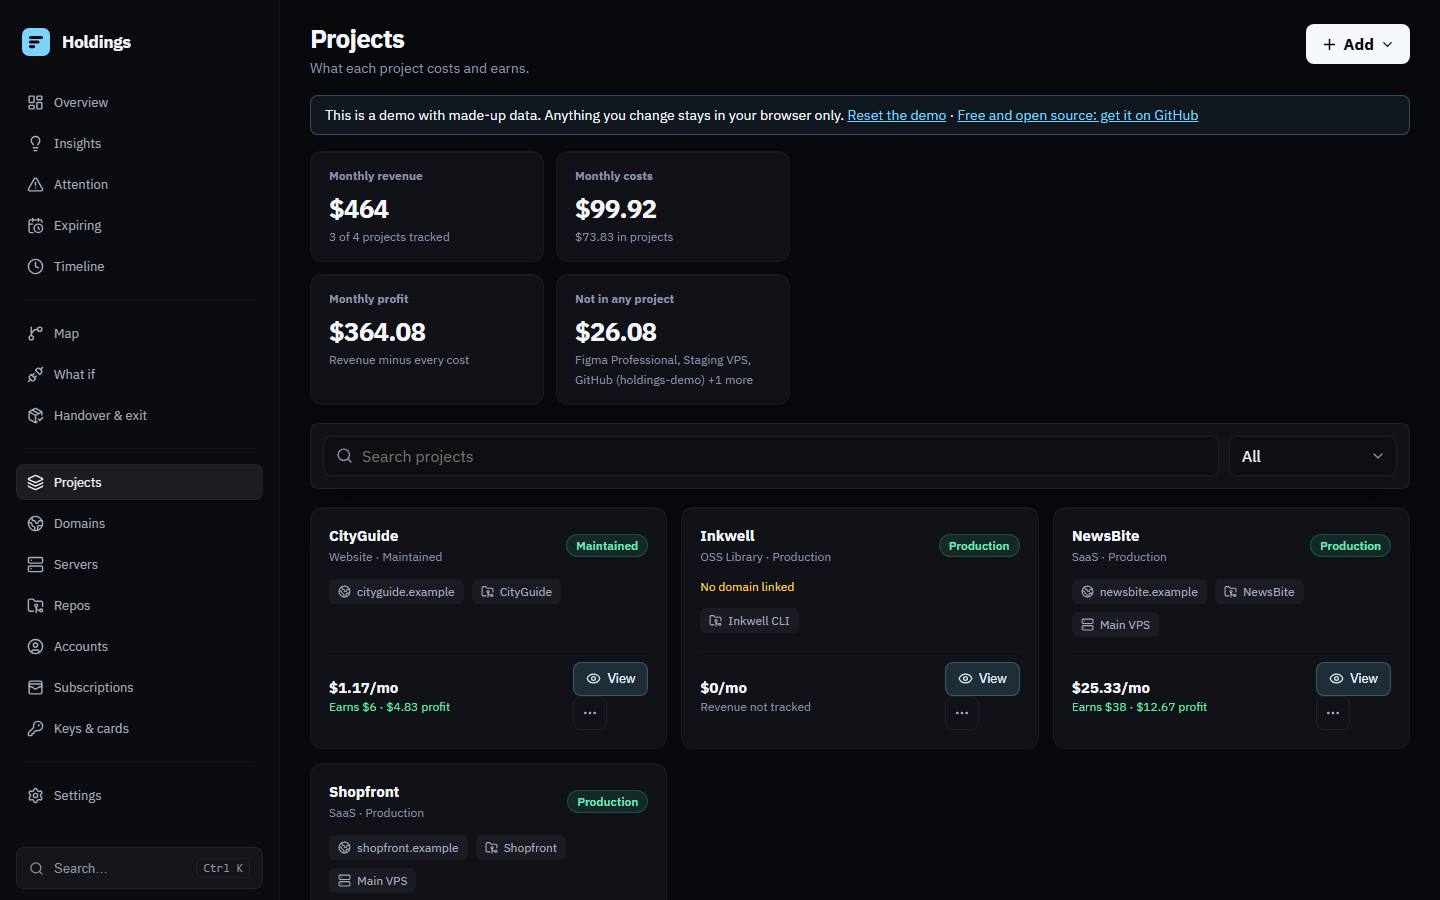
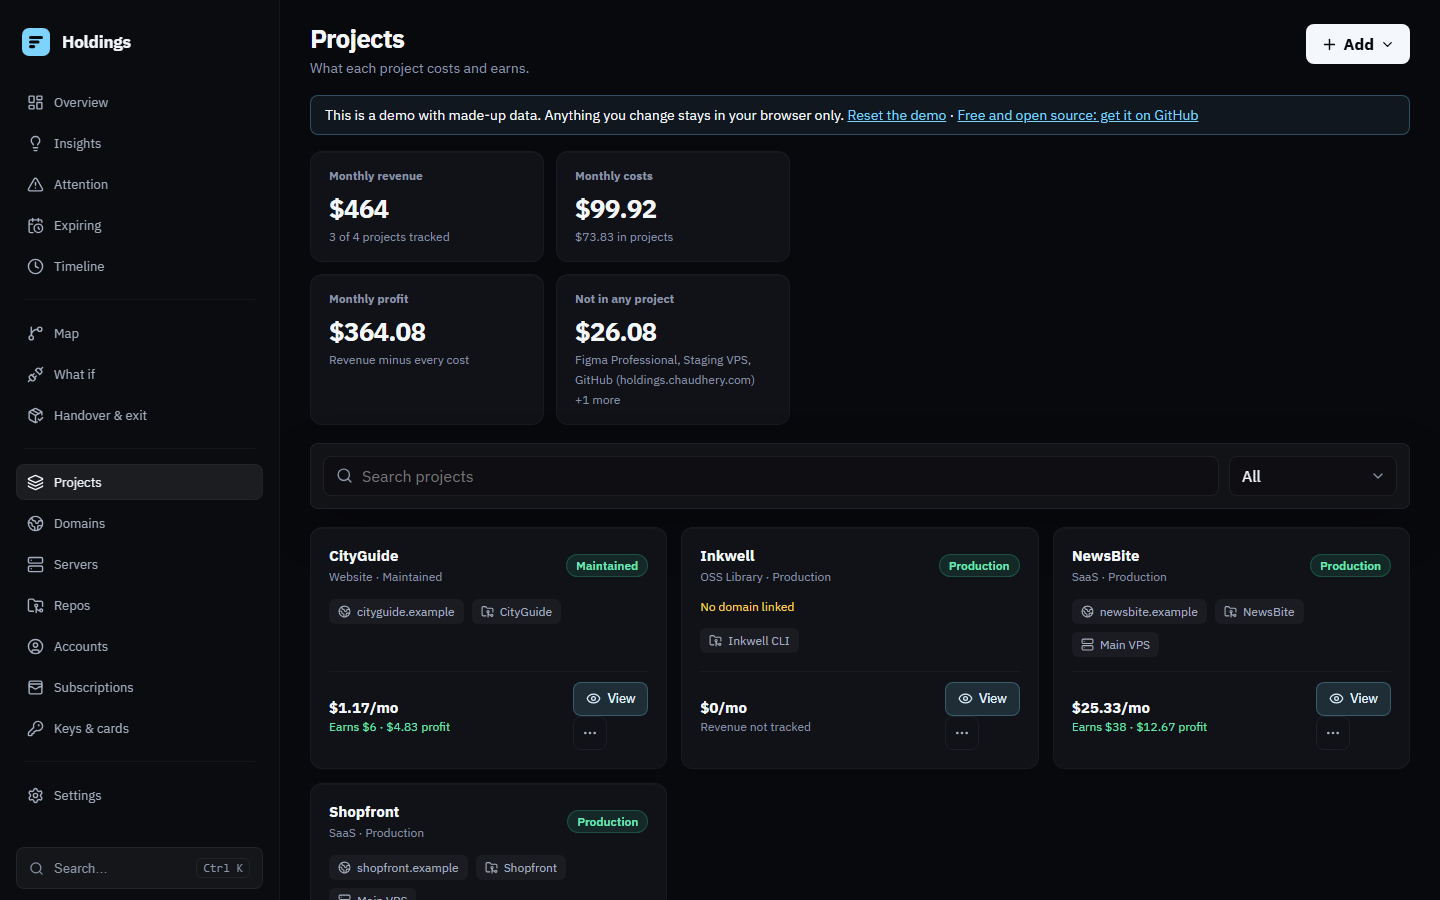
Link demo repos to the hosted demo, not a GitHub org we don't own
The demo's repos and GitHub account used a placeholder holdings-demo
organisation that anyone could register. They now point at
holdings.chaudhery.com, and the demo data test allows no other real host.

diff --git a/src/lib/seed-data.js b/src/lib/seed-data.js
@@ -1,7 +1,10 @@
 // Fictional demo portfolio. Everything here is made up: domains use the
 // reserved .example TLD (RFC 2606), IPs come from TEST-NET ranges (RFC 5737),
-// and the GitHub owner is a placeholder. Dates are relative to today so the
-// demo never goes stale.
+// and repos link to the hosted demo. Dates are relative to today so the demo
+// never goes stale.
+
+export const DEMO_HOST = 'holdings.chaudhery.com'
+const DEMO_REPOS_URL = `https://${DEMO_HOST}/#repos`
 
 // Local calendar date (not UTC), so "in 9 days" means the same in every time zone.
 function day(offset, now) {
@@ -205,12 +208,13 @@ export function getSeedRecords(now = new Date()) {
     },
   ]
 
+  // Demo repos link back to the demo itself, not to a GitHub account someone else could own.
   const repo = (id, name, fields) => ({
     id,
     name,
-    owner: 'holdings-demo',
-    url: `https://github.com/holdings-demo/${fields.slug}`,
-    githubUrl: `https://github.com/holdings-demo/${fields.slug}`,
+    owner: DEMO_HOST,
+    url: DEMO_REPOS_URL,
+    githubUrl: DEMO_REPOS_URL,
     visibility: 'Private',
     githubHealth: 'Maintained',
     stars: 0,
@@ -361,7 +365,7 @@ export function getSeedRecords(now = new Date()) {
   const accounts = [
     {
       id: 'account_github',
-      name: 'GitHub (holdings-demo)',
+      name: `GitHub (${DEMO_HOST})`,
       provider: 'GitHub',
       cost: 4,
       renewalDate: d(15),

diff --git a/src/lib/seed-data.test.js b/src/lib/seed-data.test.js
@@ -1,5 +1,5 @@
 import { describe, expect, it } from 'vitest'
-import { getSeedRecords } from './seed-data'
+import { DEMO_HOST, getSeedRecords } from './seed-data'
 import { findSecretsInRecord } from './secrets'
 
 const now = new Date('2026-10-07T12:00:00Z')
@@ -7,10 +7,19 @@ const seed = getSeedRecords(now)
 const text = JSON.stringify(seed)
 
 describe('demo data', () => {
-  it('only uses reserved .example domains', () => {
+  it('only uses reserved .example domains, plus the hosted demo itself', () => {
     const hosts = text.match(/\b(?:[a-z0-9-]+\.)+[a-z]{2,}\b/gi) || []
-    const real = hosts.filter((host) => !/\.example$/i.test(host) && !/^github\.com$/i.test(host))
+    const real = hosts.filter((host) => !/\.example$/i.test(host) && host !== DEMO_HOST)
     expect(real).toEqual([])
+  })
+
+  it('links nowhere outside the demo', () => {
+    const urls = text.match(/https?:\/\/[^"\s]+/g) || []
+    expect(urls.length).toBeGreaterThan(0)
+    urls.forEach((url) => {
+      const { hostname } = new URL(url)
+      expect(hostname === DEMO_HOST || hostname.endsWith('.example')).toBe(true)
+    })
   })
 
   it('only uses TEST-NET IP addresses', () => {
